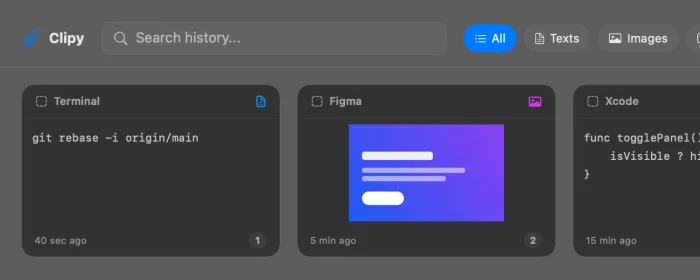
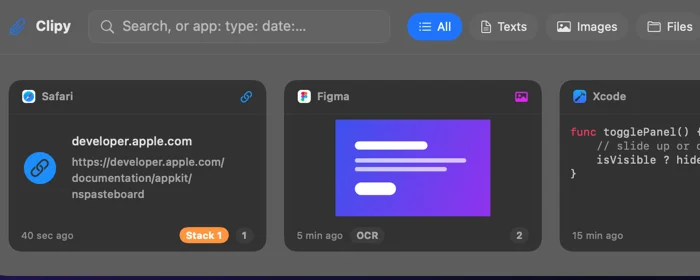
Update Clipy case study for 1.1: new features, renders and Settings

diff --git a/work/clipy.html b/work/clipy.html
@@ -4,9 +4,9 @@
 <meta charset="utf-8">
 <meta name="viewport" content="width=device-width, initial-scale=1">
 <title>Clipy — Ayman Omara</title>
-<meta name="description" content="Clipy, a native macOS clipboard manager in Swift, SwiftUI and AppKit: a slide-up card panel, a global hotkey, trackpad gestures and automatic pasting, fully offline.">
+<meta name="description" content="Clipy, a native macOS clipboard manager in Swift, SwiftUI and AppKit: a slide-up card panel, pinboards, snippets, a paste stack, text recognition in images and automatic pasting, fully offline.">
 <meta property="og:title" content="Clipy — case study by Ayman Omara">
-<meta property="og:description" content="Clipy, a native macOS clipboard manager in Swift, SwiftUI and AppKit: a slide-up card panel, a global hotkey, trackpad gestures and automatic pasting, fully offline.">
+<meta property="og:description" content="Clipy, a native macOS clipboard manager in Swift, SwiftUI and AppKit: a slide-up card panel, pinboards, snippets, a paste stack, text recognition in images and automatic pasting, fully offline.">
 <meta property="og:image" content="https://aymanomara.github.io/assets/social-preview.png">
 <meta property="og:type" content="article">
 <meta name="twitter:card" content="summary_large_image">
@@ -39,27 +39,21 @@
     <a class="case-back" href="../#project-clipy"><span aria-hidden="true">←</span> All work</a>
     <div class="eyebrow">CASE STUDY · macOS · SWIFT · SWIFTUI · APPKIT</div>
     <h1>A clipboard manager that never leaves your Mac.</h1>
-    <p class="lead">Clipy keeps everything you copy, text, images and files, and brings it back with one shortcut or a swipe. It’s a native macOS app in Swift, SwiftUI and AppKit, built to stay fully offline: nothing you copy is sent anywhere.</p>
-    <div class="case-facts"><div><b>38</b><span>Swift files</span></div><div><b>~2.9k</b><span>Lines of Swift</span></div><div><b>4</b><span>Ways to open it</span></div><div><b>0</b><span>Network calls</span></div></div>
+    <p class="lead">Clipy keeps everything you copy, text, images and files, and brings it back with one shortcut or a swipe. Version 1.1 adds pinboards, snippets, a paste stack and search inside images. It’s a native macOS app in Swift, SwiftUI and AppKit, built to stay fully offline: nothing you copy is sent anywhere.</p>
+    <div class="case-facts"><div><b>63</b><span>Swift files</span></div><div><b>~5.1k</b><span>Lines of Swift</span></div><div><b>38</b><span>Unit tests</span></div><div><b>0</b><span>Network calls</span></div></div>
   </div>
 </header>
 <section style="padding-top:0">
   <div class="wrap">
-    <figure class="shot-frame"><img src="../assets/clipy/panel-desktop.webp" alt="Clipy panel sliding up from the bottom of the screen, showing clipboard cards for text, an image, code and a file" width="1600" height="458"><figcaption>Rendered from Clipy’s own SwiftUI views with demo data, using in-memory fakes in place of the pasteboard and disk.</figcaption></figure>
+    <figure class="shot-frame"><img src="../assets/clipy/panel-desktop.webp?v=1.1" alt="Clipy panel sliding up from the bottom of the screen, with cards for a link, an image with recognised text, highlighted code, a color swatch and rich text, and two items queued in the paste stack" width="1600" height="457"><figcaption>Rendered from Clipy’s own SwiftUI views with demo data, using in-memory fakes in place of the pasteboard and disk.</figcaption></figure>
   </div>
 </section>
 <section>
   <div class="wrap">
     <div class="case-body"><h2>The idea</h2><div><p>macOS remembers one thing you copied. Clipy remembers the last 50 (or up to the limit you set) and shows them as <strong>cards you can see at a glance</strong>: the text, a preview of the image, or the file, with the app it came from and when. Search, filter by type, pin what you reuse, and paste with a number key.</p></div></div>
+    <div class="case-body"><h2>What’s new in 1.1</h2><div><ul><li><strong>Smart cards.</strong> Links, colors (with a live swatch), emails, phone numbers and code (syntax highlighted) are recognised, and each has its own tab.</li><li><strong>Rich text is kept.</strong> Formatting copied from Pages, Notes or a browser pastes back intact; <strong>⌥↩</strong> pastes plain text instead.</li><li><strong>Paste stack.</strong> Queue cards with <strong>⇧↩</strong>, then press <strong>⌃⌘V</strong> in any app to paste them one by one, which is handy for filling in forms.</li><li><strong>Pinboards and snippets.</strong> Group items into named, coloured tabs, and save text you paste often with <code>{date}</code>, <code>{time}</code> or <code>{clipboard}</code> placeholders.</li><li><strong>Search inside images.</strong> Apple’s Vision framework reads the text in copied screenshots on your Mac, so you can search for it. Search also understands <code>app:</code>, <code>type:</code>, <code>date:</code> and <code>board:</code> filters.</li><li><strong>Quick Look and transforms.</strong> <strong>Space</strong> previews the full item; right-click to paste it as UPPERCASE, formatted JSON, Base64 and more.</li><li><strong>More privacy controls.</strong> Choose apps whose copies are never saved, and delete history automatically after 1 to 90 days.</li><li><strong>Shortcuts app actions</strong> to get, search and save clipboard items from your own automations.</li></ul></div></div>
     <div class="case-body"><h2>Working with macOS</h2><div><p>Most of the work is in the places where an app has to reach outside its own window: watching the system clipboard, catching a shortcut in every app, and pasting into someone else’s app.</p>
-      <div class="code-stack" style="margin-top:22px"><div class="code-card"><header><b>Clipy/ClipboardMonitor.swift</b><span>privacy filter · trimmed</span></header><pre><span class="k">private let</span>  ignoredTypes: <span class="t">Set</span>&lt;<span class="t">NSPasteboard</span>.<span class="t">PasteboardType</span>&gt; = [
-    <span class="t">NSPasteboard</span>.<span class="t">PasteboardType</span>(<span class="s">"org.nspasteboard.ConcealedType"</span>),
-    <span class="t">NSPasteboard</span>.<span class="t">PasteboardType</span>(<span class="s">"org.nspasteboard.TransientType"</span>),
-    <span class="t">NSPasteboard</span>.<span class="t">PasteboardType</span>(<span class="s">"org.nspasteboard.AutoGeneratedType"</span>),
-    <span class="t">NSPasteboard</span>.<span class="t">PasteboardType</span>(<span class="s">"com.agilebits.onepassword"</span>)
-]
-
-<span class="k">private</span> <span class="k">func</span> checkPasteboard() {
+      <div class="code-stack" style="margin-top:22px"><div class="code-card"><header><b>Clipy/ClipboardMonitor.swift</b><span>privacy filter · trimmed</span></header><pre><span class="k">private</span> <span class="k">func</span> checkPasteboard() {
     <span class="k">let</span> currentChangeCount = pasteboard.changeCount
     <span class="k">guard</span> currentChangeCount != lastChangeCount <span class="k">else</span> { <span class="k">return</span> }
     lastChangeCount = currentChangeCount
@@ -67,8 +61,18 @@
     <span class="c">// Passwords and one-off values are never recorded</span>
     <span class="k">if</span> <span class="k">let</span> types = pasteboard.types, !ignoredTypes.isDisjoint(with: types) { <span class="k">return</span> }
 
-    <span class="k">let</span> sourceApp = <span class="t">NSWorkspace</span>.shared.frontmostApplication?.localizedName
-    <span class="c">// …read a file URL, an image or text, and hand it to the manager</span>
+    <span class="c">// Neither is anything copied in an app the user chose to ignore</span>
+    <span class="k">let</span> sourceApp = <span class="t">NSWorkspace</span>.shared.frontmostApplication
+    <span class="k">if</span> exclusions.isExcluded(bundleID: sourceApp?.bundleIdentifier) { <span class="k">return</span> }
+
+    <span class="c">// Every file of a selection, an image, or text with its RTF/HTML</span>
+    <span class="k">guard let</span> content = readContent() <span class="k">else</span> { <span class="k">return</span> }
+    onClipboardChanged?(<span class="t">ClipboardCapture</span>(
+        content: content,
+        sourceAppName: sourceApp?.localizedName,
+        sourceBundleID: sourceApp?.bundleIdentifier,
+        changeCount: currentChangeCount
+    ))
 }</pre></div><div class="code-card"><header><b>Clipy/PasteSimulator.swift</b><span>auto-paste</span></header><pre><span class="k">final class</span> <span class="t">CGEventPasteSimulator</span>: <span class="t">PasteSimulating</span> {
     <span class="k">private</span> <span class="k">let</span> virtualKeyV: <span class="t">CGKeyCode</span> = 0x09
 
@@ -82,11 +86,11 @@
         up?.post(tap: .cgSessionEventTap)
     }
 }</pre></div></div>
-      <ul style="margin-top:22px"><li>The global <strong>⌘⇧V</strong> goes through Carbon’s <code>RegisterEventHotKey</code>, which works no matter which app is in front.</li><li>A global <code>NSEvent</code> monitor opens the panel when you scroll up within 60 points of the bottom of the screen.</li><li>The panel is a borderless, <strong>non-activating</strong> panel, so opening it doesn’t steal focus from the app you’re about to paste into.</li><li>Typing ⌘V into another app needs macOS <strong>Accessibility</strong> permission. Clipy checks it with <code>CGPreflightPostEventAccess</code>, asks with <code>CGRequestPostEventAccess</code>, and links straight to the right System Settings pane if it was declined.</li></ul></div></div>
-    <div class="case-body"><h2>Architecture</h2><div><p>The history manager depends only on four small protocols. Each system integration sits behind one, so it can be swapped out. The screenshots on this page use exactly that: the real views, fed by in-memory fakes.</p><div style="margin-top:22px"><div class="layers"><div class="layer"><code>ClipboardHistoryManager</code><span>@Observable state: history, deduplication, pinning, the history limit</span></div><div class="layer-arrow" aria-hidden="true">↓ talks only to protocols</div><div class="layer"><code>ClipboardStorageProtocol</code><span>DiskClipboardStorage: JSON history in Application Support, images in Caches</span></div><div class="layer"><code>ClipboardMonitoringProtocol</code><span>ClipboardMonitor: watches the pasteboard, skips concealed types</span></div><div class="layer"><code>HotkeyManaging</code><span>CarbonHotkeyManager: the system-wide ⌘⇧V</span></div><div class="layer"><code>PasteSimulating</code><span>CGEventPasteSimulator: types ⌘V into the app you came from</span></div></div></div></div></div>
-    <div class="case-body"><h2>From copy to paste</h2><div><div style="margin-top:4px"><ol class="flow"><li><b>Copy</b><span>You copy text, an image or a file in any app.</span></li><li><b>Detect</b><span>Clipy notices the pasteboard changed, checking its change count twice a second.</span></li><li><b>Filter</b><span>Items marked concealed or transient by password managers are skipped.</span></li><li><b>Store</b><span>History is saved as JSON; images go to the cache; a repeat copy moves to the top instead of duplicating.</span></li><li><b>Open</b><span>⌘⇧V, a two-finger swipe at the bottom edge, the pill, or the menu bar.</span></li><li><b>Paste</b><span>Pick a card or press 1–9: Clipy reactivates your previous app and types ⌘V.</span></li></ol></div></div></div>
-    <div class="case-body"><h2>Preferences</h2><div class="split"><div><p>Launch at login (switched on the first time Clipy runs, through <code>SMAppService</code>), auto-paste access, the history limit, and the two gesture triggers each take one click. The bottom-edge hover is off by default, with a note to keep it off if your Dock sits at the bottom. <strong>Clear Unpinned</strong> and <strong>Clear All</strong> manage the stored history, and a restart button relaunches the app.</p></div><figure class="shot-frame"><img src="../assets/clipy/preferences.webp" alt="Clipy preferences: launch at login, history limit, gesture toggles, and clear history buttons" width="520" height="862" loading="lazy"></figure></div></div>
-    <div class="case-body" id="download"><h2>Try it</h2><div><p style="display:flex;flex-wrap:wrap;gap:12px;margin-bottom:22px"><a class="btn primary" href="https://github.com/AymanOmara/clipy/releases/latest/download/Clipy.zip">Download for Mac ↓</a><a class="btn ghost" href="https://github.com/AymanOmara/clipy" target="_blank" rel="noopener">Source code ↗</a></p><p>Clipy 1.0 is a universal app for Apple silicon and Intel Macs and <strong>needs macOS 26.4 or later</strong>. It isn’t notarized by Apple yet, so the first time you open it, go to <strong>System Settings → Privacy &amp; Security</strong> and click <strong>Open Anyway</strong>. Allow it under Accessibility to use auto-paste. The full steps are on the <a href="https://github.com/AymanOmara/clipy/releases/latest" target="_blank" rel="noopener">release page ↗</a>.</p></div></div>
+      <ul style="margin-top:22px"><li>Global shortcuts go through Carbon’s <code>RegisterEventHotKey</code>, which works no matter which app is in front. Both <strong>⌘⇧V</strong> and Paste Next can be re-recorded in Settings, and a new shortcut is registered before the old one is released, so a taken combination never leaves you without one.</li><li>A global <code>NSEvent</code> monitor opens the panel when you scroll up within 60 points of the bottom of the screen.</li><li>The panel is a borderless, <strong>non-activating</strong> panel, so opening it doesn’t steal focus from the app you’re about to paste into. The Quick Look window above it can’t become key either, so arrows, Space and Esc keep working in the panel.</li><li>When Clipy writes to the pasteboard itself, it remembers the change count, so pasting an old item moves it to the top instead of recording a duplicate.</li><li>Typing ⌘V into another app needs macOS <strong>Accessibility</strong> permission. Clipy checks it with <code>CGPreflightPostEventAccess</code>, asks with <code>CGRequestPostEventAccess</code>, and links straight to the right System Settings pane if it was declined.</li></ul></div></div>
+    <div class="case-body"><h2>Architecture</h2><div><p>The history manager depends only on a few small protocols. Each system integration sits behind one, so it can be swapped out. The screenshots on this page use exactly that: the real views, fed by in-memory fakes.</p><div style="margin-top:22px"><div class="layers"><div class="layer"><code>ClipboardHistoryManager</code><span>@Observable state: history, deduplication, pinboards, snippets, the item limit and retention by age</span></div><div class="layer-arrow" aria-hidden="true">↓ talks only to protocols</div><div class="layer"><code>ClipboardStorageProtocol</code><span>DiskClipboardStorage: JSON history written on a background queue and flushed on quit, images in Caches</span></div><div class="layer"><code>ClipboardMonitoringProtocol</code><span>ClipboardMonitor: watches the pasteboard, skips concealed data and ignored apps, keeps rich text</span></div><div class="layer"><code>HotkeyManaging</code><span>CarbonHotkeyManager: the user’s show/hide and Paste Next shortcuts</span></div><div class="layer"><code>PasteSimulating</code><span>CGEventPasteSimulator: types ⌘V into the app you came from</span></div></div></div></div></div>
+    <div class="case-body"><h2>From copy to paste</h2><div><div style="margin-top:4px"><ol class="flow"><li><b>Copy</b><span>You copy text, an image or a file in any app.</span></li><li><b>Detect</b><span>Clipy notices the pasteboard changed, checking its change count twice a second.</span></li><li><b>Filter</b><span>Items marked concealed by password managers, and anything copied in an ignored app, are skipped.</span></li><li><b>Store</b><span>Images are hashed, encoded and read for text off the main thread; a repeat copy moves to the top instead of duplicating.</span></li><li><b>Open</b><span>⌘⇧V, a two-finger swipe at the bottom edge, the pill, or the menu bar.</span></li><li><b>Paste</b><span>Pick a card or press 1–9, with or without formatting: Clipy reactivates your previous app and types ⌘V.</span></li></ol></div></div></div>
+    <div class="case-body"><h2>Settings</h2><div class="split"><div><p>Settings now follows macOS System Settings: a sidebar of panes and grouped forms that match the system’s light or dark mode and accent colour. <strong>General</strong> holds launch at login, paste access and history limits; <strong>Shortcuts</strong> records new global shortcuts and lists the panel’s keys; <strong>Privacy</strong> lists ignored apps; <strong>Snippets</strong> and <strong>Pinboards</strong> manage your collections; <strong>Storage</strong> shows the image cache and clears history, after asking first.</p></div><figure class="shot-frame"><img src="../assets/clipy/settings.webp?v=1.1" alt="Clipy Settings, Shortcuts pane: recorders for the show or hide and paste next shortcuts, and a list of the clipboard panel’s keys" width="575" height="500" loading="lazy"></figure></div></div>
+    <div class="case-body" id="download"><h2>Try it</h2><div><p style="display:flex;flex-wrap:wrap;gap:12px;margin-bottom:22px"><a class="btn primary" href="https://github.com/AymanOmara/clipy/releases/latest/download/Clipy.zip">Download for Mac ↓</a><a class="btn ghost" href="https://github.com/AymanOmara/clipy" target="_blank" rel="noopener">Source code ↗</a></p><p>Clipy 1.1 is a universal app for Apple silicon and Intel Macs and <strong>needs macOS 26.4 or later</strong>. It isn’t notarized by Apple yet, so the first time you open it, go to <strong>System Settings → Privacy &amp; Security</strong> and click <strong>Open Anyway</strong>. Allow it under Accessibility to use auto-paste; if you’re updating from 1.0, switch Clipy off and on again there. Your history is kept. The full steps are on the <a href="https://github.com/AymanOmara/clipy/releases/latest" target="_blank" rel="noopener">release page ↗</a>.</p></div></div>
   </div>
 </section>
 </main>

diff --git a/ar/index.html b/ar/index.html
@@ -197,10 +197,10 @@
         <a class="case-link" href="../work/ibn-sina.html">اقرأ دراسة الحالة (بالإنجليزية) <span aria-hidden="true">←</span></a>
       </article>
       <article class="proj reveal with-art" data-cat="native" id="project-clipy">
-        <div class="project-art art-mini art-violet" aria-hidden="true"><span class="project-art-label">يعمل دون اتصال عن قصد.</span><span class="mock-note">لقطة حقيقية من التطبيق ببيانات تجريبية.</span><div class="mac mac-shot"><img src="../assets/clipy/panel-card.webp" alt="" width="700" height="280" loading="lazy"></div></div>
+        <div class="project-art art-mini art-violet" aria-hidden="true"><span class="project-art-label">يعمل دون اتصال عن قصد.</span><span class="mock-note">لقطة حقيقية من التطبيق ببيانات تجريبية.</span><div class="mac mac-shot"><img src="../assets/clipy/panel-card.webp?v=1.1" alt="" width="700" height="280" loading="lazy"></div></div>
         <div class="proj-top"><div class="proj-ico">12 /</div><div class="proj-links"><a href="https://github.com/AymanOmara/clipy/releases/latest" target="_blank" rel="noopener">تنزيل ↖</a><a href="https://github.com/AymanOmara/clipy" target="_blank" rel="noopener">الشيفرة ↖</a></div></div>
         <h3>Clipy</h3><div class="kind">macOS · Swift / SwiftUI</div>
-        <dl class="project-story"><div><dt>التحدي</dt><dd>وصول أسرع إلى سجل الحافظة دون إرسال المحتوى المنسوخ إلى أي خادم.</dd></div><div><dt>مساهمتي</dt><dd>بنيت أداة macOS أصلية بـ Swift وSwiftUI وAppKit.</dd></div><div><dt>النتيجة</dt><dd>سجل يعمل دون اتصال، وبحث فوري، واختصار عام، وإيماءات لوحة التتبع، ولصق سريع.</dd></div></dl>
+        <dl class="project-story"><div><dt>التحدي</dt><dd>وصول أسرع إلى سجل الحافظة دون إرسال المحتوى المنسوخ إلى أي خادم.</dd></div><div><dt>مساهمتي</dt><dd>بنيت أداة macOS أصلية بـ Swift وSwiftUI وAppKit.</dd></div><div><dt>النتيجة</dt><dd>سجل يعمل دون اتصال مع البحث داخل الصور، ولوحات تثبيت، ومقتطفات نصية، وقائمة لصق متتابع، واختصارات قابلة للتخصيص، ولصق سريع.</dd></div></dl>
         <div class="tags"><span class="tag">Swift</span><span class="tag">SwiftUI</span><span class="tag">AppKit</span></div>
         <a class="case-link" href="../work/clipy.html">اقرأ دراسة الحالة (بالإنجليزية) <span aria-hidden="true">←</span></a>
       </article>

diff --git a/index.html b/index.html
@@ -204,10 +204,10 @@
         <a class="case-link" href="work/ibn-sina.html">Read the case study <span aria-hidden="true">→</span></a>
       </article>
       <article class="proj reveal with-art" data-cat="native" id="project-clipy">
-        <div class="project-art art-mini art-violet" aria-hidden="true"><span class="project-art-label">OFFLINE BY DESIGN.</span><span class="mock-note">Real app render, demo data.</span><div class="mac mac-shot"><img src="assets/clipy/panel-card.webp" alt="" width="700" height="280" loading="lazy"></div></div>
+        <div class="project-art art-mini art-violet" aria-hidden="true"><span class="project-art-label">OFFLINE BY DESIGN.</span><span class="mock-note">Real app render, demo data.</span><div class="mac mac-shot"><img src="assets/clipy/panel-card.webp?v=1.1" alt="" width="700" height="280" loading="lazy"></div></div>
         <div class="proj-top"><div class="proj-ico">12 /</div><div class="proj-links"><a href="https://github.com/AymanOmara/clipy/releases/latest" target="_blank" rel="noopener">Download ↗</a><a href="https://github.com/AymanOmara/clipy" target="_blank" rel="noopener">Code ↗</a></div></div>
         <h3>Clipy</h3><div class="kind">macOS · Swift / SwiftUI</div>
-        <dl class="project-story"><div><dt>Challenge</dt><dd>Faster access to clipboard history without sending copied content to a server.</dd></div><div><dt>My contribution</dt><dd>Built a native macOS utility in Swift, SwiftUI, and AppKit.</dd></div><div><dt>Outcome</dt><dd>Delivered offline history, instant search, a global shortcut, trackpad gestures, and quick paste.</dd></div></dl>
+        <dl class="project-story"><div><dt>Challenge</dt><dd>Faster access to clipboard history without sending copied content to a server.</dd></div><div><dt>My contribution</dt><dd>Built a native macOS utility in Swift, SwiftUI, and AppKit.</dd></div><div><dt>Outcome</dt><dd>Delivered offline history with search inside images, pinboards, snippets, a paste stack, custom shortcuts, and quick paste.</dd></div></dl>
         <div class="tags"><span class="tag">Swift</span><span class="tag">SwiftUI</span><span class="tag">AppKit</span></div>
         <a class="case-link" href="work/clipy.html">Read the case study <span aria-hidden="true">→</span></a>
       </article>
